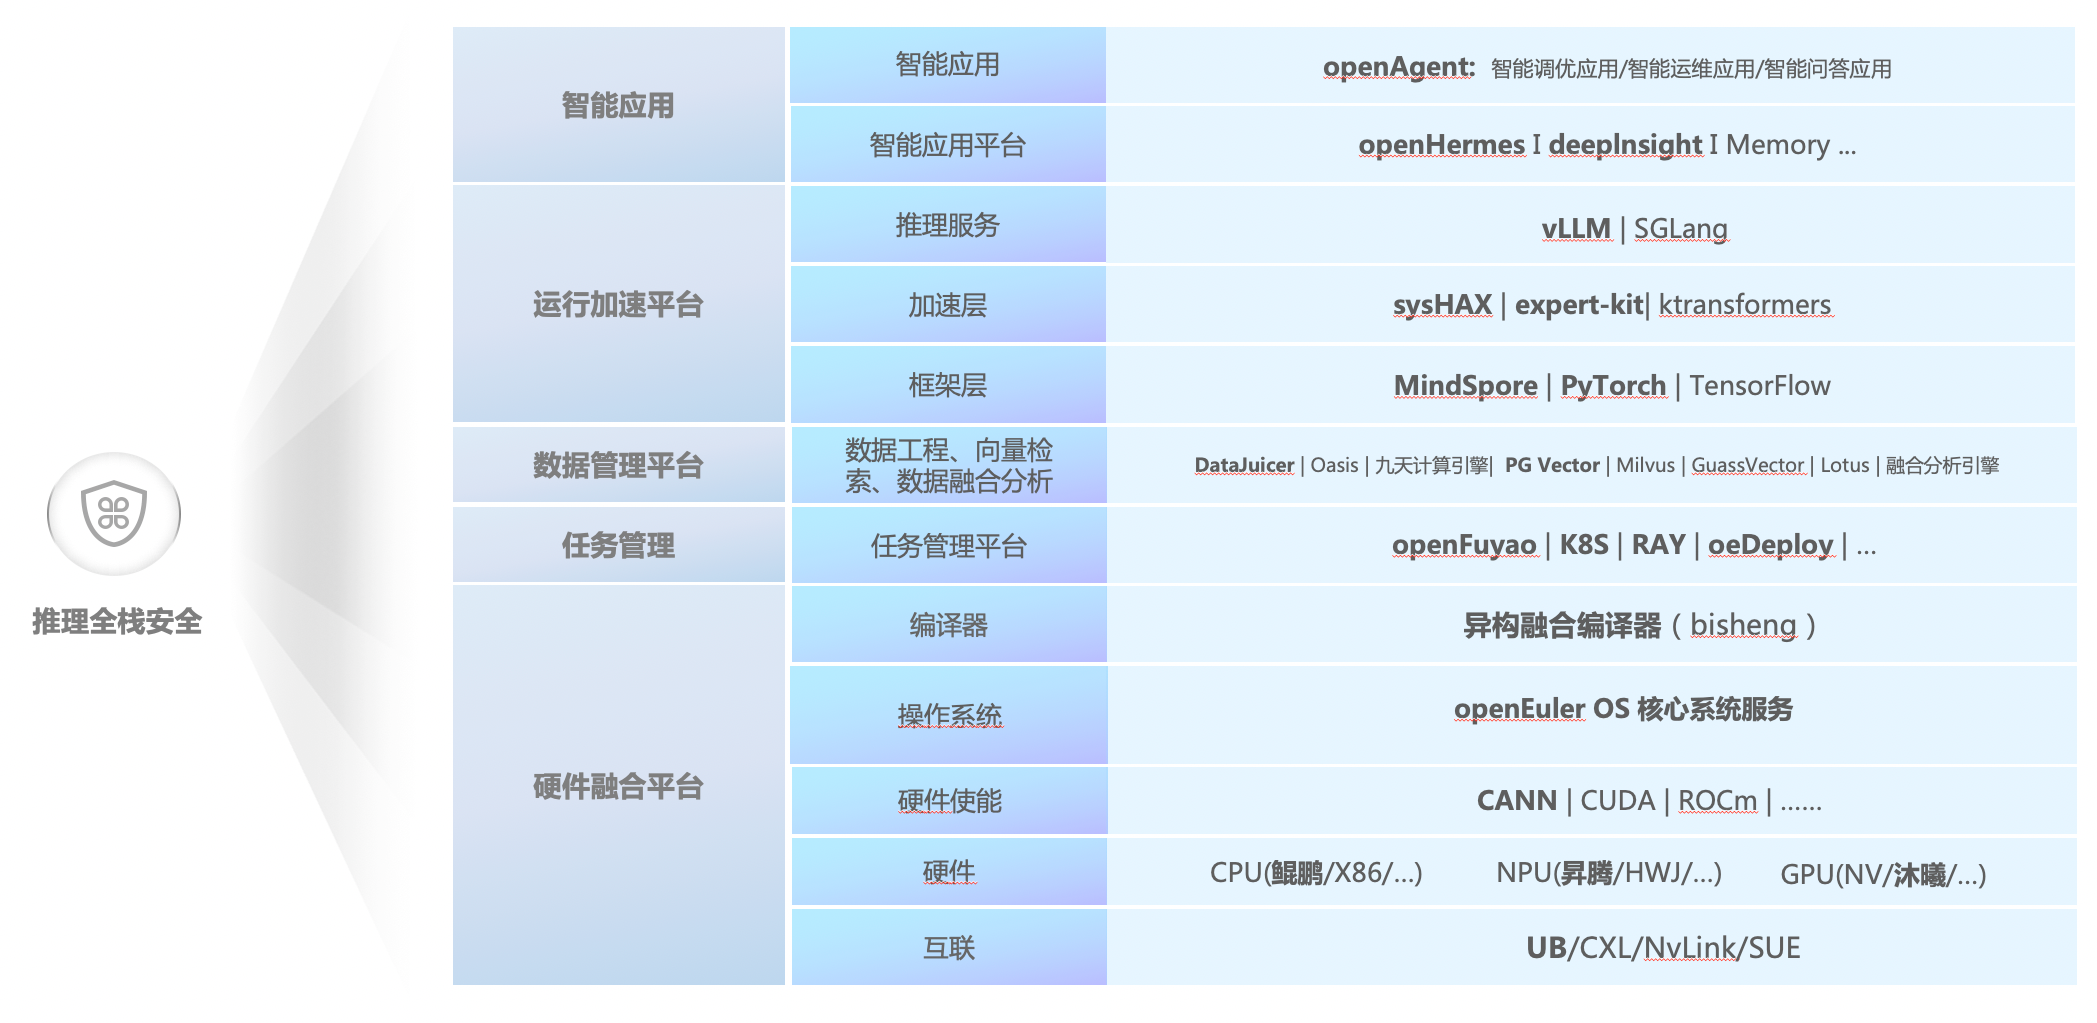
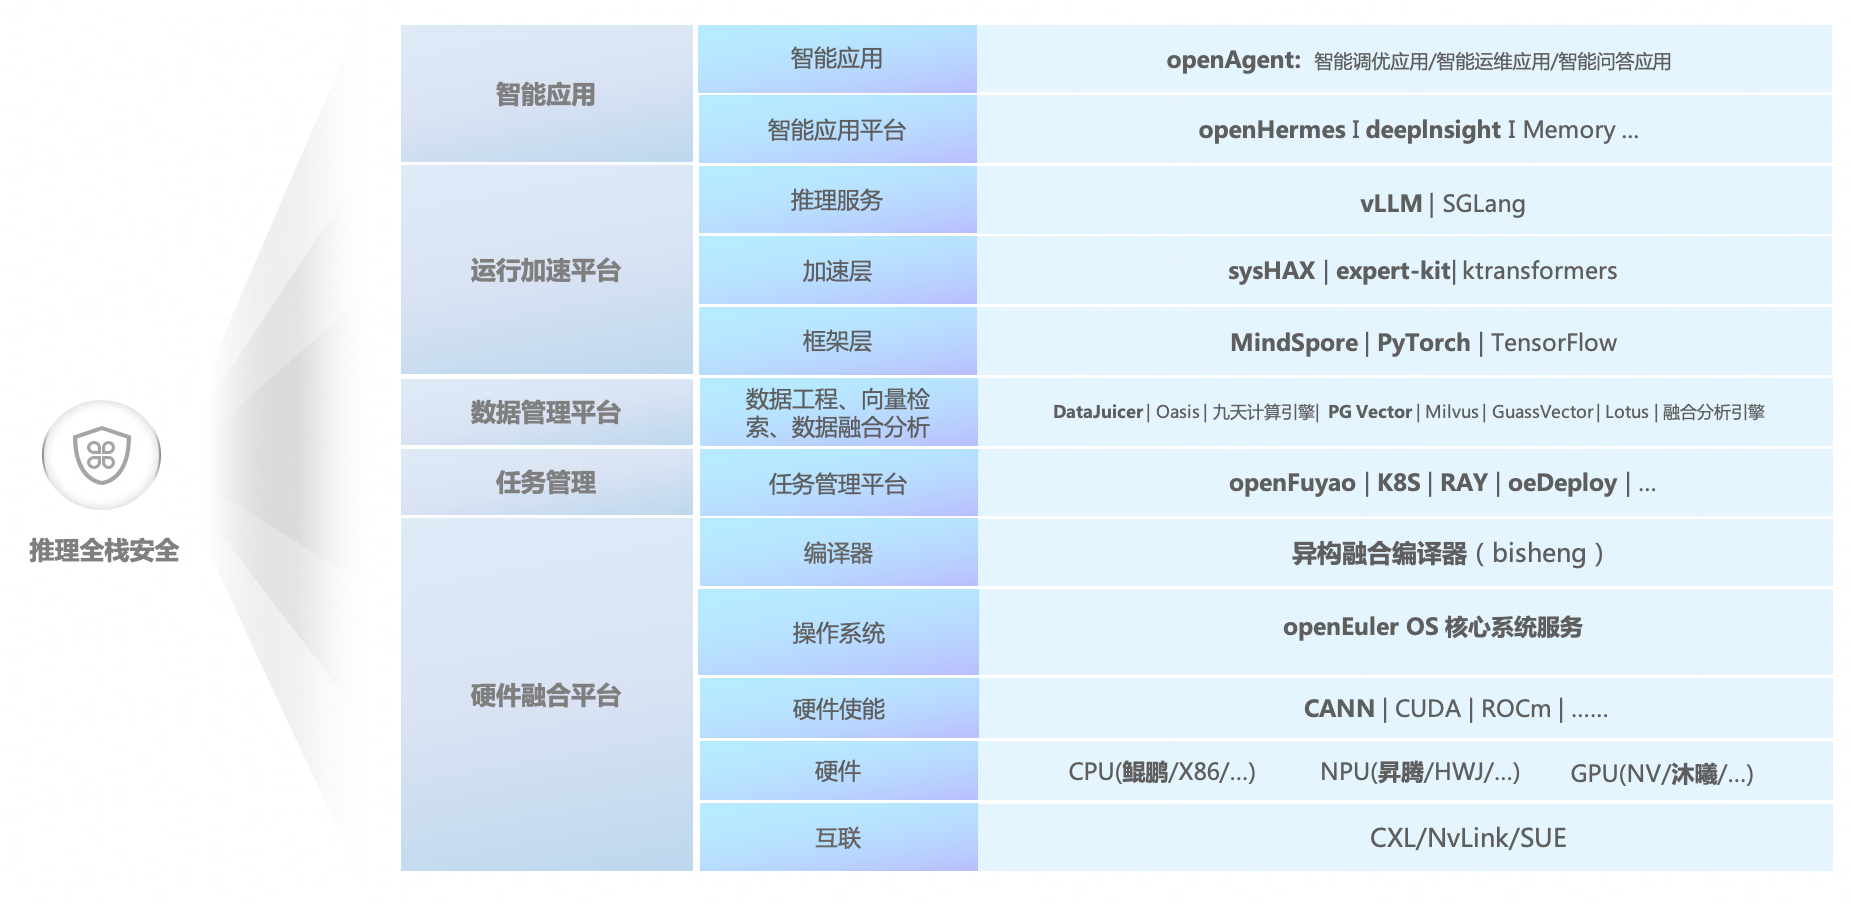
解决readme 文档中架构图无法显示问题,更新架构图

diff --git a/README_en.md b/README_en.md
@@ -42,7 +42,7 @@ To solve the preceding problems, we collaborate with the open source community t
 
 ## Technical Architecture ##
 
-![Image](doc/deepseek/asserts/IntelligenceBoom_en.png}	
+![Image](doc/deepseek/asserts/IntelligenceBoom_en.png)	
 
 #### **Intelligent Application Platform: Quickly Connect Your Business to AI**  ####
 
@@ -152,7 +152,7 @@ To solve the preceding problems, we collaborate with the open source community t
 
 #### **Connected technology: "high-speed conversation" with hardware**  ####
 
-**Component composition:** UB (universal bus), CXL (computing and memory expansion), NVLink (Nvidia high-speed interconnection), SUE
+**Component composition:** CXL (computing and memory expansion), NVLink (Nvidia high-speed interconnection), SUE
 
 **Core Values** 
 
